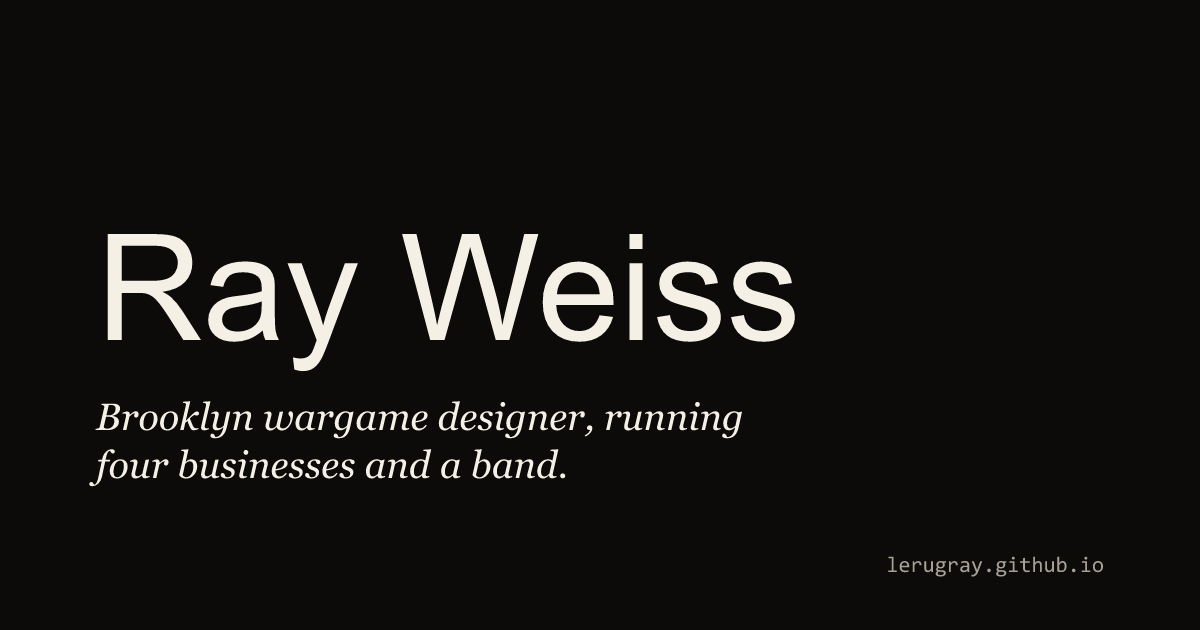
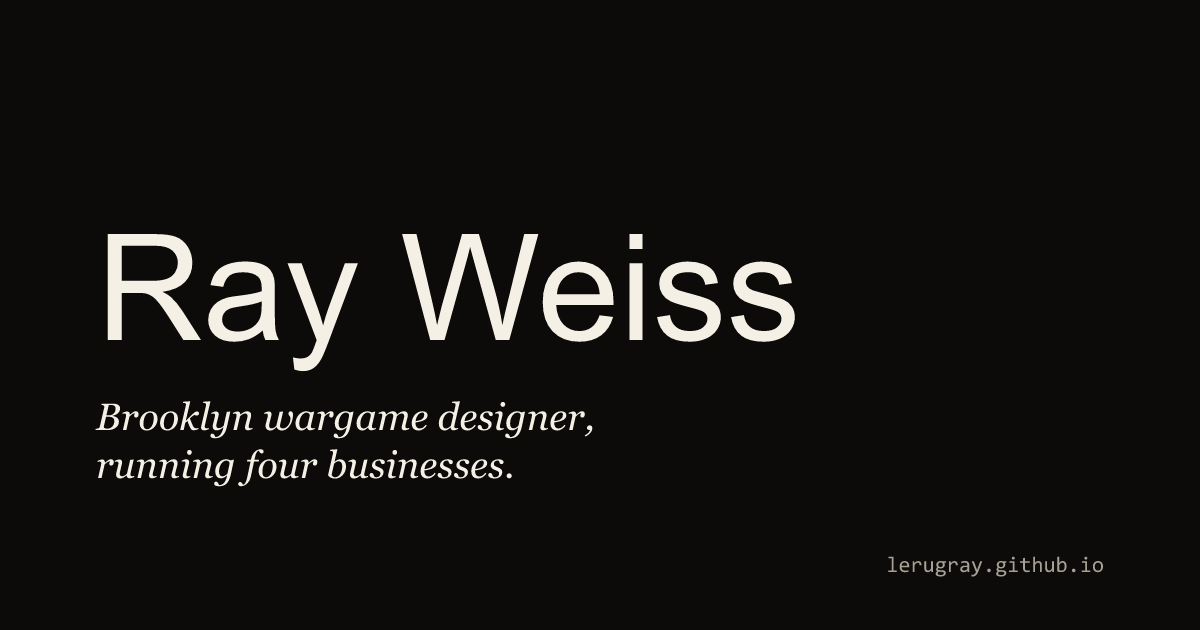
Phase 21: Le Rug temporal-staleness fix (and a band → no band)
Ray flagged that the landing page dek and the music section
language were factually wrong: he hasn't been in a band in
about ten years, Le Rug isn't "current" either (instruments
sold, all but done musically), and the claims propagated from
the still-up Bandcamp page through the vault into multiple
site pages plus the OG image PNG.

Eleven content edits across nine files, plus one regenerated
PNG, plus an Entry 8 in the Hammerstein log naming the new
failure category (temporal staleness from public artifacts).

- src/pages/index.astro: dek + meta + Music section blurb,
  all "and a band" / "current Brooklyn project" claims gone
- src/layouts/BaseLayout.astro: default description + og:image:alt
- src/pages/music.astro: meta + dek + para 1, all past tense,
  with "instruments are sold; the catalog is still up" framing
- src/pages/catalogdna.astro: "records" → "recorded"
- vault/music/le-rug.md: ongoing → past + session-03 status note
- vault/businesses/catalogdna.md: same
- scripts/build-og-image.mjs: SVG dek text updated
- public/og-image.png: regenerated (35KB), now reads
  "Brooklyn wargame designer, / running four businesses."
- vault/hammerstein-log/observations.md: Entry 8 — temporal
  staleness in present-tense claims about user activities, with
  the rule extension (extraction-time + consumption-time checks
  for present-tense vs past-tense framing)
- vault/sessions/2026-04-15-session-03.md: Phase 21 section +
  handoff message updated to "Phases 13-21" and "eight
[…]

Changed region(s): [[0.0925, 0.7238, 0.4625, 0.7841], [0.4933, 0.6333, 0.6167, 0.6937]]

diff --git a/vault/hammerstein-log/observations.md b/vault/hammerstein-log/observations.md
@@ -134,3 +134,43 @@ No draft in the vault. No stop-slop pass. Three slop tells in 26 words: a tricol
 **Meta (for the public essay).** Seven log entries now. Six negatives, one mixed. Entry 7 is a new failure mode category (IP extraction) on top of the four from session 1 (agent hallucination, staging discipline, two-layer recording, stop-slop drafting) and session 2's two stop-slop extension failures (Entries 5 and 6). The framework has now documented seven distinct ways to fail in two days of use. The public essay's current framing ("the framework has three documented failure modes from its first day of use") will need an update when it gets revised — the count is growing and the categorical variety is growing faster than the repetition rate, which is both better and worse than the essay currently claims.
 
 **Shape check for session 3.** When Ray next asks for new site copy extracted from a vault file, the check is: open the vault file, read the `DO NOT publish` block first, hold it in working memory, then read the rest. Don't write any page content until that filter is loaded. If a vault file doesn't have a `DO NOT publish` block, assume the most restrictive reading (public marketing page level only) and ask Ray for explicit go-ahead on any technical detail.
+
+---
+
+## 2026-04-15 — entry 8: stale present-tense claims from a public artifact propagated through the vault into the site
+
+**Observation.** Late in session 03, after Phases 13–20 had all shipped, Ray flagged that the landing page dek (*"Brooklyn wargame designer, running four businesses and a band"*) was wrong on a substantive point: he hasn't been actively in a band in about ten years. A few minutes later he added that Le Rug — described throughout the site as Ray's *"current"* / *"ongoing"* music project — also hasn't been current in a long time, that he'd sold his instruments, and that he was *"all but done musically unless any of my businesses take off."* Both claims appeared in multiple places: the landing dek, the landing Music section blurb, the `/music` page meta description and dek and intro paragraph, the `/catalogdna` page's Le Rug cross-reference, the BaseLayout default description, the og:image:alt attribute, and the rendered `og-image.png` (which had `four businesses and a band` baked into the SVG text).
+
+**The chain that produced the failure.** Trace it backward:
+
+1. Ray's public Bandcamp page at `lerug.bandcamp.com` exists and the catalog is up. From a public-web perspective, "Le Rug" is a live artist page with releases.
+2. In session 1, the project-discovery WebSearch pass that captured Le Rug for the vault treated the existence of the Bandcamp page as evidence that Le Rug was an *ongoing* project. The vault file `vault/music/le-rug.md` got created with the language *"Le Rug is the ongoing music project of Ray Weiss"* — present tense, sourced from public-web inference, never confirmed with Ray.
+3. In Phase 8 (session 02), the `/music` page was built using that vault file as source-of-truth. The wording "current Brooklyn project" propagated in.
+4. In Phase 13 (session 03 today), I drafted the landing-page dek and pulled "and a band" from the same chain — the music section was a real category on the site, so the dek listed it as an active part of Ray's life.
+5. In Phase 13, I also generated the OG image PNG with the text "four businesses and a band" baked into the rasterized SVG. That graphic shipped to every social preview on every page.
+
+By the time Ray caught it in the late-session message, the inaccuracy had been live on the deployed site for hours, including in the OG previews that other people would see when the site was shared.
+
+**What the failure is, structurally.** Different from every prior log entry. Entry 2 was a **fabricated** credential (the agent imagined Ray was a peer-reviewed AI researcher because a repo name pattern-matched). This one is **not fabricated** — Le Rug really exists, the Bandcamp page is real, the catalog is up. The failure is **temporal staleness**: a claim that *was* true at some point in the past and is false now, but the public artifact (Bandcamp page) doesn't carry a "no longer active" marker, so the discovery pipeline read present-tense language ("ongoing", "is", "current") into a project that's actually past tense.
+
+**Why "flag-and-hold" (Entry 2's rule) didn't fire.** Entry 2's rule says: *when an agent reports an external credential that materially upgrades the user's public identity, don't write it to any persistent layer until the user confirms.* The Le Rug case looked different to that rule because:
+
+- It wasn't an *upgrade* — Le Rug was a regular activity, not a credential. The rule's trigger ("materially upgrades public identity") didn't fire.
+- The source was the user's own Bandcamp page, not an inference about a third-party publication. It looked like *self-attested* content.
+- The information had been in the vault since session 1 without flags, so by sessions 2 and 3 it was operating as confirmed source-of-truth, not as a held tentative claim.
+
+The rule needs extension. **Present-tense claims about the user's current activities** ("ongoing", "current", "running", "is making") are a different category than credentials, and they need their own check: **when the source is a public artifact with no temporal marker, flag the claim as time-uncertain and confirm with the user before writing present tense to the vault.** Past-tense claims (releases, prior projects, accomplishments) don't need this check — they describe artifacts that happened, regardless of whether the activity continues. Present-tense claims describe an *ongoing state* that may have ended without the artifact being updated.
+
+**Counter-examples that I got right.** Sweet Bulbs and Butter The Children were always written about in past tense across the site, because the vault file had them under "Prior bands" — the temporal frame was explicit in the source structure. The bug only surfaced for Le Rug because the vault put Le Rug under a separate "Where to listen" header with present-tense language, treating it as a current category. The structure of the vault file itself encoded the assumption.
+
+**Rule captured.** Two-part addition to the discipline:
+
+1. **At extraction time:** when extracting content from a public web artifact about a user's *current* activities (ongoing projects, current bands, currently-running businesses, present-tense self-descriptions), the artifact's existence is NOT proof the activity is current. Bandcamp pages stay up after artists stop releasing. GitHub repos stay public after projects are archived. Personal sites get out of date. The discovery pipeline should mark these claims as **temporally uncertain** and write them to the vault wrapped in a "verify currency with user" flag, not as confirmed facts.
+
+2. **At consumption time:** when consuming a vault file that uses present-tense language about the user, ask: *was this confirmed by the user, or extracted from a public artifact?* If the latter, default to past tense in the site copy and flag for user confirmation. Past tense is recoverable ("oh, that's still going actually, can you update?") whereas present tense is publicly embarrassing ("you said I'm still in a band, I haven't been for a decade").
+
+**Fix in flight.** Phase 21 (in this same session, after Ray's flag) updates eleven content locations across nine files plus regenerates the OG image PNG. The new framing is past-tense throughout: `Le Rug was Ray's main music project from Brooklyn for years. The instruments are sold; the catalog is still up.` The vault files (`vault/music/le-rug.md` and `vault/businesses/catalogdna.md`) are updated to record the resolved status as of session 03. The landing dek becomes `Brooklyn wargame designer, running four businesses` (drops the band claim entirely). The OG image SVG text is updated and the PNG re-rendered.
+
+**Meta (for the public essay).** Eight entries now. Seven negatives, one mixed (entry 3, the flag-and-hold rule firing correctly on the Tyler tweets). The categorical variety of failures is still growing: Entry 8 introduces the *temporal staleness* category, distinct from Entry 2's *fabricated credential* category. The public essay has been claiming "the framework has documented failure modes" — that count is now eight categorically distinct ways to fail, plus a few repeat instances within categories. The discipline is what makes the count visible; the count is the value.
+
+**Shape check for the next time the discovery pipeline runs.** When ingesting public-web artifacts about a user (Bandcamp pages, GitHub repos, personal sites, professional bios, Wikipedia entries), the default temporal frame for any present-tense claim should be **"unknown — verify with user."** The fact that the page is up does not prove the activity is current. Web is not a heartbeat.

diff --git a/vault/sessions/2026-04-15-session-03.md b/vault/sessions/2026-04-15-session-03.md
@@ -528,4 +528,58 @@ Saved this session: `feedback_visual_audit_via_chrome_extension.md` — for inte
 
 ### Handoff message Ray can paste to start the next session
 
-> Continuing personal-site from session 3 (2026-04-15). Please read `CLAUDE.md`, `vault/README.md`, `vault/index.md`, `vault/sessions/2026-04-15-session-02.md`, `vault/sessions/2026-04-15-session-03.md`, `vault/decisions/2026-04-15-design-system-v1.md`, and `vault/hammerstein-log/observations.md` to orient. Thirteen pages live at `lerugray.github.io`. Phases 13–20 shipped in session 3 covering landing page, social previews, Night Manager fix, em-dash sweep, Prigozhin slug, CSL detail pages, audit infrastructure, distinctive-design pass, stop-slop sweep, and date timezone fix. Tech stack + design system are locked — don't relitigate. Open items are listed in the "Handoff for tomorrow" section of session-03 — start by asking me which I want to pick up first. Maintain the seven Hammerstein disciplines.
+> Continuing personal-site from session 3 (2026-04-15). Please read `CLAUDE.md`, `vault/README.md`, `vault/index.md`, `vault/sessions/2026-04-15-session-02.md`, `vault/sessions/2026-04-15-session-03.md`, `vault/decisions/2026-04-15-design-system-v1.md`, and `vault/hammerstein-log/observations.md` to orient. Thirteen pages live at `lerugray.github.io`. Phases 13–21 shipped in session 3 covering landing page, social previews, Night Manager fix, em-dash sweep, Prigozhin slug, CSL detail pages, audit infrastructure, distinctive-design pass, stop-slop sweep, date timezone fix, and the Le Rug temporal-staleness correction. Tech stack + design system are locked — don't relitigate. Open items are listed in the "Handoff for tomorrow" section of session-03 — start by asking me which I want to pick up first. Maintain the eight Hammerstein disciplines (the eighth is the new Entry 8 rule on temporal staleness in present-tense claims about user activities).
+
+## Phase 21 — Le Rug temporal-staleness fix
+
+After Phase 19+20 pushed, Ray sent three quick follow-up messages catching a substantive factual error: the landing dek's *"and a band"* claim is wrong (he hasn't been in one in ~10 years), Le Rug isn't *"current"* either (he's *"sold all my instruments and all but done musically unless any of my businesses take off"*), and *"may as well knock that out now if you can."*
+
+This is the failure mode that became Hammerstein log Entry 8 — temporal staleness propagating from a public artifact (the Bandcamp page that's still up) through the vault (`vault/music/le-rug.md` written in present tense in session 1) into multiple site pages and the rendered OG image. See Entry 8 for the full structural analysis.
+
+### Eleven content edits across nine files
+
+| File | Change |
+|---|---|
+| `src/pages/index.astro` | Landing dek `running four businesses and a band` → `running four businesses`. Meta description same change. Music section blurb `Le Rug, current Brooklyn project. Sweet Bulbs and Butter The Children before that.` → `Le Rug, with Sweet Bulbs and Butter The Children before that. Brooklyn projects from a former life.` |
+| `src/layouts/BaseLayout.astro` | Default description `running four businesses and a band` → `running four businesses`. og:image:alt same change. |
+| `src/pages/music.astro` | Meta description: present → past tense (`recorded as Le Rug ... Brooklyn projects from a former life`). Dek same shift, plus added sentence `The instruments are sold; the catalog is still up.` Para 1 rewritten to past tense and adds `These days the focus is on the games and software, but the catalog is still up for anyone who wants to dig.` |
+| `src/pages/catalogdna.astro` | `Ray records music as Le Rug` → `Ray recorded music as Le Rug`. Single-word past-tense fix. |
+| `vault/music/le-rug.md` | Source-of-truth file: `Le Rug is the ongoing music project of Ray Weiss` → `Le Rug was the main music project of Ray Weiss`, plus a session-03 status note: *"Ray confirmed he is no longer actively making music — instruments are sold, focus has shifted to the games and software businesses. The Le Rug catalog stays up at lerug.bandcamp.com as an archive of the prior body of work, not as a current project. Site copy should always speak about Le Rug in past tense."* |
+| `vault/businesses/catalogdna.md` | `Ray records music as Le Rug` → `Ray recorded music as Le Rug. The project is no longer active as of session 03 confirmation; the catalog stays up as an archive of prior work.` |
+| `scripts/build-og-image.mjs` | SVG dek text `Brooklyn wargame designer, running` / `four businesses and a band.` → `Brooklyn wargame designer,` / `running four businesses.` Two-line layout preserved, second line reflows. |
+| `public/og-image.png` | Regenerated by running `node scripts/build-og-image.mjs`. New PNG (35KB) renders the corrected dek across the original Arial/Georgia/Consolas system-font stack. |
+| `vault/hammerstein-log/observations.md` | Entry 8 appended — *temporal staleness from public artifact* failure category. |
+
+### What stays untouched (deliberately)
+
+- **`vault/about/bio.md`** and **`src/pages/about.astro`** — the bio mentions *"CatalogDNA started as a tool for analyzing my own four-hundred-track catalog as Le Rug"* in past-tense origin-story framing. Doesn't claim Le Rug is current. No edit needed. Ray-approved verbatim content anyway.
+- **The `/music` page H2 "Selected releases" UL of album titles** — these are concrete artifacts (named albums on Bandcamp) that exist as a fact regardless of whether Ray is actively releasing now. Past or present tense doesn't apply to "Selected releases:" as a section header. Untouched.
+- **Sweet Bulbs and Butter The Children sections** — already past-tense in the existing copy. No change needed.
+- **The session-3 log entries documenting Phase 13's original `running four businesses and a band` choice** — these are historical record of what shipped and when. Append-only. Reading them with the Phase 21 + Entry 8 context now makes them part of the failure-mode story. Don't retroactively edit.
+
+### Verification
+
+- `node scripts/build-og-image.mjs`: regenerated `public/og-image.png` (35KB).
+- `npm run build`: 13 pages, 2.57s, clean.
+- `npm run check`: 23 files, 0/0/0.
+- `npm run lint`: clean.
+- Visual inspection of the new OG PNG via Read tool: title `Ray Weiss` + dek `Brooklyn wargame designer, / running four businesses.` rendering correctly on the Ink ground.
+
+### Phase 21 commit will include
+
+```
+src/pages/index.astro                          # 3 edits
+src/layouts/BaseLayout.astro                   # 2 edits
+src/pages/music.astro                          # 3 edits
+src/pages/catalogdna.astro                     # 1 edit
+vault/music/le-rug.md                          # ongoing → past + status note
+vault/businesses/catalogdna.md                 # records → recorded + status
+scripts/build-og-image.mjs                     # SVG dek text
+public/og-image.png                            # regenerated PNG
+vault/hammerstein-log/observations.md          # Entry 8 appended
+vault/sessions/2026-04-15-session-03.md        # this Phase 21 section
+```
+
+10 files. Eleven content edits + one regenerated PNG. The handoff-message text above the Phase 21 section was also updated to reflect that Phases 13–21 shipped (not 13–20) and that there are now eight Hammerstein disciplines (not seven).
+
+**This is now the actual stop-for-the-night point.** Phase 21 ships the Le Rug correction in the same session window as the bug landed, which is the right shape — short feedback loop, no overnight delay between bad copy and fix.

diff --git a/vault/businesses/catalogdna.md b/vault/businesses/catalogdna.md
@@ -25,7 +25,7 @@ The Pete Burns / Dead or Alive match surfaced in Ray's own catalog — a structu
 
 ## Living demo — the Le Rug / Peter Burns recursion (verified 2026-04-15)
 
-Ray records music as **Le Rug** (`lerug.bandcamp.com`). One of his own Le Rug albums is titled ***Party With Peter Burns*** — an explicit nod to Pete Burns of Dead or Alive. Independently, when CatalogDNA analyzed his ~407-track catalog, its canonical structural match came back as **Pete Burns / Dead or Alive**.
+Ray recorded music as **Le Rug** (`lerug.bandcamp.com`). The project is no longer active as of session 03 confirmation; the catalog stays up as an archive of prior work. One of his own Le Rug albums is titled ***Party With Peter Burns*** — an explicit nod to Pete Burns of Dead or Alive. Independently, when CatalogDNA analyzed his ~407-track catalog, its canonical structural match came back as **Pete Burns / Dead or Alive**.
 
 So the album title says *"I know about Pete Burns."* The fingerprint says *"you sound more like him than you thought."* The album is a self-aware homage; the tool reveals the influence runs deeper than a title — into chord vocabulary, scale choices, melodic shape.
 

diff --git a/vault/music/le-rug.md b/vault/music/le-rug.md
@@ -4,7 +4,7 @@ _Created 2026-04-15 after a WebSearch research pass. All facts verified to publi
 
 ## Who
 
-**Le Rug** is the ongoing music project of **Ray Weiss** — Brooklyn-based singer / guitarist. "Le Rug" is the project name; Ray writes and fronts it. Bandcamp bio phrasing: "basically Ray Weiss & Friends."
+**Le Rug** was the main music project of **Ray Weiss** — Brooklyn-based singer / guitarist. "Le Rug" is the project name; Ray wrote and fronted it. Bandcamp bio phrasing: "basically Ray Weiss & Friends." **Status as of 2026-04-15 (session 03):** Ray confirmed he is no longer actively making music — instruments are sold, focus has shifted to the games and software businesses. The Le Rug catalog stays up at `lerug.bandcamp.com` as an archive of the prior body of work, not as a current project. Site copy should always speak about Le Rug in past tense.
 
 ## Where to listen (verified public links)
 
